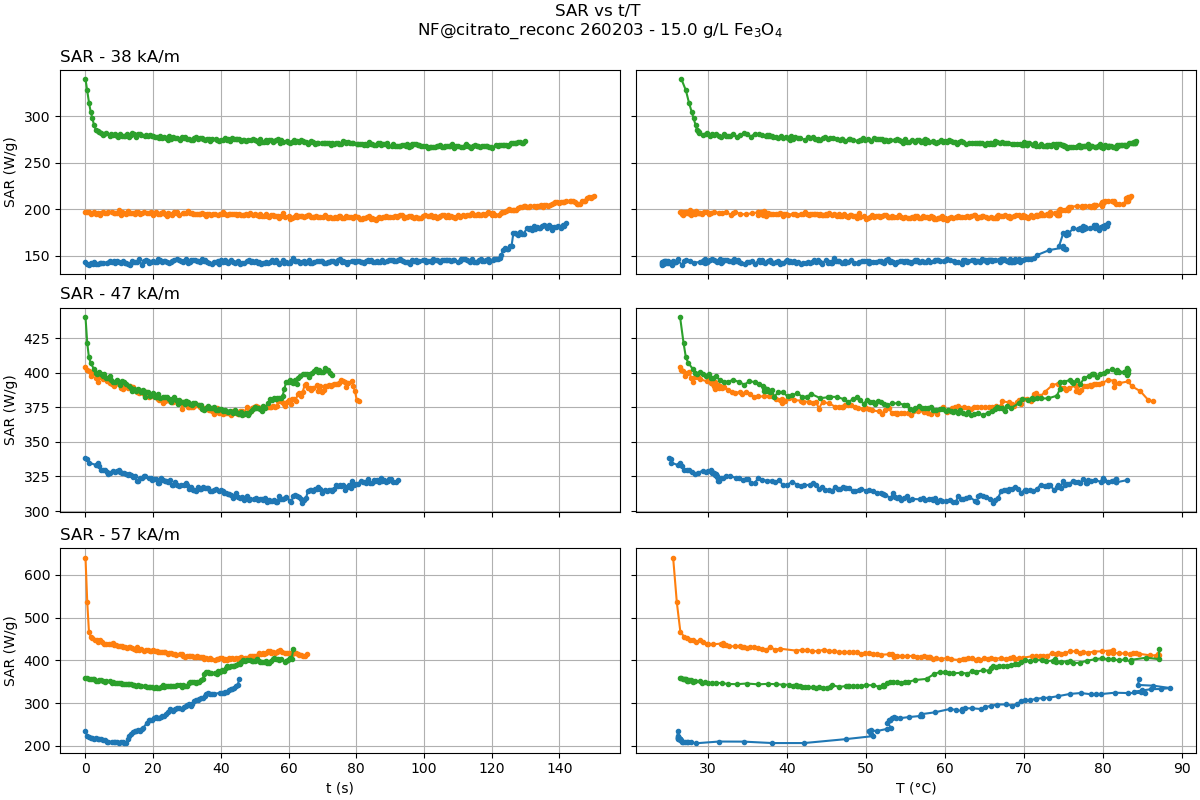
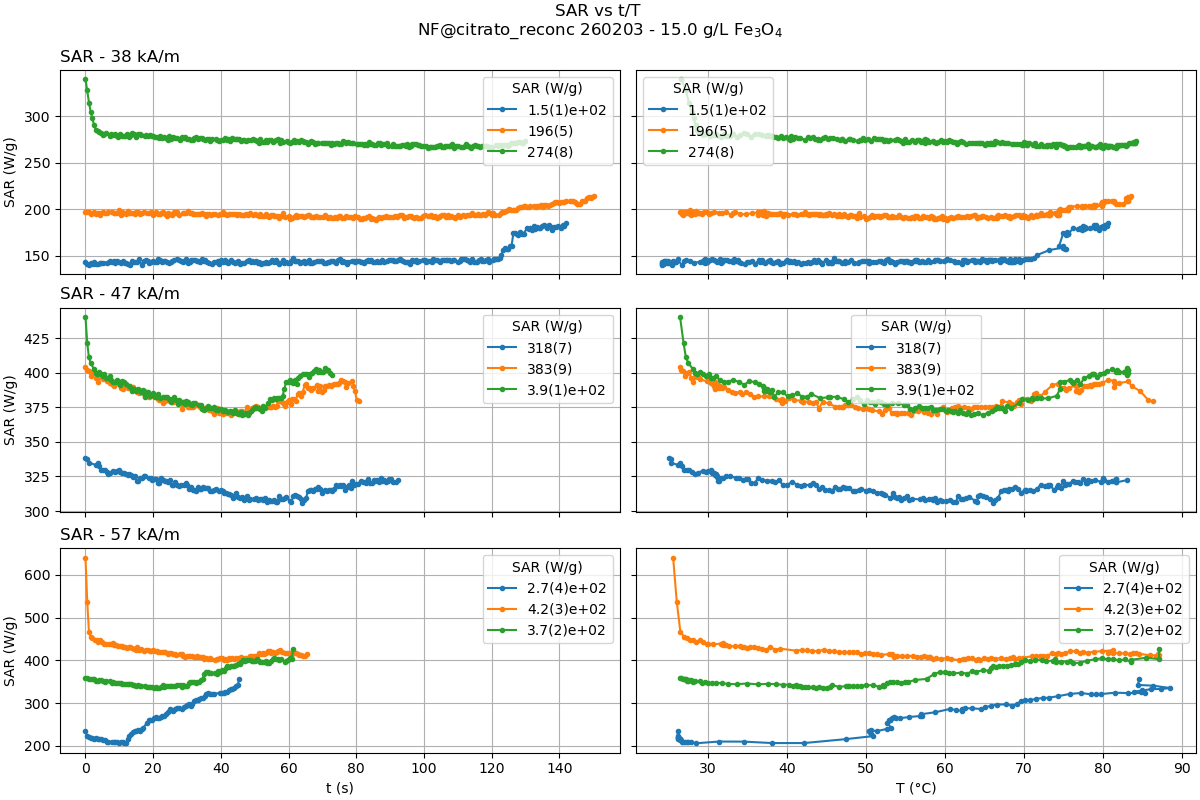
ecSAR listo

diff --git a/comparativa_NF@citrato260203_reconcentrada.py b/comparativa_NF@citrato260203_reconcentrada.py
@@ -205,6 +205,25 @@ for a in [ax,ax2,ax3]:
 plt.suptitle('tau vs t/T \nNF@citrato_reconc 260203 - 15.0 g/L Fe$_3$O$_4$')    
 plt.show()
 #%% SAR vs t / T
+SAR_100_all = np.concatenate([SAR_300_100[0],SAR_300_100[1],SAR_300_100[2]])
+SAR_100_mean = np.mean(SAR_100_all)
+SAR_100_std = np.std(SAR_100_all, ddof=1) 
+SAR_100_prom = ufloat(SAR_100_mean,SAR_100_std)
+print(f'ESAR 100 = {SAR_100_prom:.2uS} W/g')
+
+SAR_125_all = np.concatenate([SAR_300_125[0],SAR_300_125[1],SAR_300_125[2]])
+SAR_125_mean = np.mean(SAR_125_all)
+SAR_125_std = np.std(SAR_125_all, ddof=1) 
+SAR_125_prom = ufloat(SAR_125_mean,SAR_125_std)
+print(f'ESAR 125 = {SAR_125_prom:.2uS} W/g')
+
+SAR_150_all = np.concatenate([SAR_300_150[0],SAR_300_150[1],SAR_300_150[2]])
+SAR_150_mean = np.mean(SAR_150_all)
+SAR_150_std = np.std(SAR_150_all, ddof=1) 
+SAR_150_prom = ufloat(SAR_150_mean,SAR_150_std)
+print(f'ESAR 150 = {SAR_150_prom:.2uS} W/g')
+
+
 fig2, ((ax,axa),(ax2,axb),(ax3,axc)) = plt.subplots(nrows=3,ncols=2,figsize=(12,8),constrained_layout=True,sharex='col',sharey='row')
 
 ax.plot(t_300_100[0],SAR_300_100[0],'.-')
@@ -219,7 +238,6 @@ ax3.plot(t_300_150[0],SAR_300_150[0],'.-')
 ax3.plot(t_300_150[1],SAR_300_150[1],'.-')
 ax3.plot(t_300_150[2],SAR_300_150[2],'.-')
 
-
 axa.plot(T_300_100[0],SAR_300_100[0],'.-')
 axa.plot(T_300_100[1],SAR_300_100[1],'.-')
 axa.plot(T_300_100[2],SAR_300_100[2],'.-')
@@ -232,7 +250,6 @@ axc.plot(T_300_150[0],SAR_300_150[0],'.-')
 axc.plot(T_300_150[1],SAR_300_150[1],'.-')
 axc.plot(T_300_150[2],SAR_300_150[2],'.-')
 
-
 ax.set_title('SAR - 38 kA/m',loc='left')
 ax2.set_title('SAR - 47 kA/m',loc='left')
 ax3.set_title('SAR - 57 kA/m',loc='left')
@@ -241,9 +258,23 @@ axc.set_xlabel("T (°C)")
 
 for a in [ax,ax2,ax3,axa,axb,axc]:
     a.grid()
-    #a.legend(title="Frecuencia (kHz)",ncol=2)
+    #a.legend(title='SAR (W/g)')
 for a in [ax,ax2,ax3]:
     a.set_ylabel("SAR (W/g)")
+
+ax.text(0.95,0.90,f'SAR = {SAR_100_prom:.2uS} W/g',
+        ha='right',va='center',
+        bbox=dict(boxstyle="round", fc='C3',alpha=0.6,lw=1),
+        transform=ax.transAxes)
+ax2.text(0.95,0.90,f'SAR = {SAR_125_prom:.2uS} W/g',
+        ha='right',va='center',
+        bbox=dict(boxstyle="round", fc='C3',alpha=0.6,lw=1),
+        transform=ax2.transAxes)
+ax3.text(0.95,0.90,f'SAR = {SAR_150_prom:.2uS} W/g',
+        ha='right',va='center',
+        bbox=dict(boxstyle="round", fc='C3',alpha=0.6,lw=1),
+        transform=ax3.transAxes)    
+
 plt.suptitle('SAR vs t/T \nNF@citrato_reconc 260203 - 15.0 g/L Fe$_3$O$_4$')    
 plt.show()
 
@@ -269,6 +300,18 @@ rate_150=ufloat(rates_150.mean(),rates_150.std())
 
 for r in (rate_100,rate_125,rate_150):
     print(f'{r:.1uS} °C/s')
+    
+#ecSAR a partir del raw warming rate
+ecSAR_150 = rate_150*4186/15 
+ecSAR_125 = rate_125*4186/15    
+ecSAR_100 = rate_100*4186/15
+
+
+print(f'ecSAR 100 = {ecSAR_100:.2uS} W/g')
+print(f'ecSAR 125 = {ecSAR_125:.2uS} W/g')
+print(f'ecSAR 150 = {ecSAR_150:.2uS} W/g')
+
+    
 fig3,(ax,ax2,ax3) = plt.subplots(3,1,figsize=(11,8),constrained_layout=True)
 
 ax.plot(t_300_100[0],T_300_100[0],'.-',label=f'$\Delta$t = {t_300_100[0][-1]:.1f} s - $\Delta$T = {T_300_100[0][-1]-T_300_100[0][0]:.1f} °C\n raw WR = {rate_100_1:.2f} °C\s')
@@ -288,6 +331,22 @@ ax2.set_title('Temperatura - 47 kA/m',loc='left')
 ax3.set_title('Temperatura - 57 kA/m',loc='left')
 ax3.set_xlabel("t (t)")
 
+
+ax.text(0.02,0.90,rf'$\Delta$T/$\Delta$t = {rate_100:.1uS} °C/s'+f'\necSAR = {ecSAR_100:.2uS} W/g',
+        bbox=dict(boxstyle="round", fc='C3',alpha=0.6,lw=1),
+        ha='left',va='top',
+        transform=ax.transAxes)
+
+ax2.text(0.02,0.90,rf'$\Delta$T/$\Delta$t = {rate_125:.1uS} °C/s'+f'\necSAR = {ecSAR_125:.2uS} W/g',
+        bbox=dict(boxstyle="round", fc='C3',alpha=0.6,lw=1),
+        ha='left',va='top',
+        transform=ax2.transAxes)
+
+ax3.text(0.02,0.90,rf'$\Delta$T/$\Delta$t = {rate_150:.1uS} °C/s'+f'\necSAR = {ecSAR_150:.2uS} W/g',
+        bbox=dict(boxstyle="round", fc='C3',alpha=0.6,lw=1),
+        ha='left',va='top',
+        transform=ax3.transAxes)
+
 for a in [ax,ax2,ax3]:
     a.grid()
     a.set_ylabel("T (°C)")
@@ -296,6 +355,40 @@ for a in [ax,ax2,ax3]:
     a.legend(ncol=3)
 plt.suptitle('Temperatura  vs t\nNF@citrato_reconc 260203 - 15.0 g/L Fe$_3$O$_4$')    
 plt.show()
+#%% Ploteo comparativa ESAR ecSAR
+campo= [38 , 47 , 57]
+ESAR = [SAR_100_prom,SAR_125_prom,SAR_150_prom]
+ecSAR = [ecSAR_100,ecSAR_125,ecSAR_150]
+
+SAR_100_plot = [ufloat(np.mean(s),np.std(s)) for s in SAR_300_100 ]
+SAR_125_plot = [ufloat(np.mean(s),np.std(s)) for s in SAR_300_125 ]
+SAR_150_plot = [ufloat(np.mean(s),np.std(s)) for s in SAR_300_150 ]
+
+H_57= [57,57,57]
+H_47= [47,47,47]
+H_38= [38,38,38]
+
+
+
+fig,ax=plt.subplots(nrows=1,ncols=1,figsize=(10,5),constrained_layout=True)
+
+# ax.errorbar(x=H_38,y=[s.n for s in SAR_100_plot],yerr=[s.s for s in SAR_100_plot],fmt='.-',capsize=3,label='ESAR 38 kA/m')
+# ax.errorbar(x=H_47,y=[s.n for s in SAR_125_plot],yerr=[s.s for s in SAR_125_plot],fmt='.-',capsize=3,label='ESAR 47 kA/m')
+# ax.errorbar(x=H_57,y=[s.n for s in SAR_150_plot],yerr=[s.s for s in SAR_150_plot],fmt='.-',capsize=3,label='ESAR 57 kA/m')
+
+
+ax.errorbar(x=campo,y=[e.n for e in ESAR],yerr=[e.s for e in ESAR],fmt='.-',capsize=5,label='ESAR')
+ax.errorbar(x=campo,y=[c.n for c in ecSAR],yerr=[c.s for c in ecSAR],fmt='.-',capsize=5,label='ecSAR')
+
+ax.set_xticks(campo)
+ax.set_title('ESAR vs ecSAR \nNF@citrato_reconc 260203 - 15.0 g/L Fe$_3$O$_4$')
+ax.grid()
+ax.legend(ncol=2)
+ax.set_xlabel("H (kA/m)")
+ax.set_ylabel("SAR (W/g)")
+plt.savefig('ESAR_vs_ecSAR_NF@citrato_reconc_15_gL.png',dpi=300)
+
+
 
 #%% Hc vs t/ T
 
